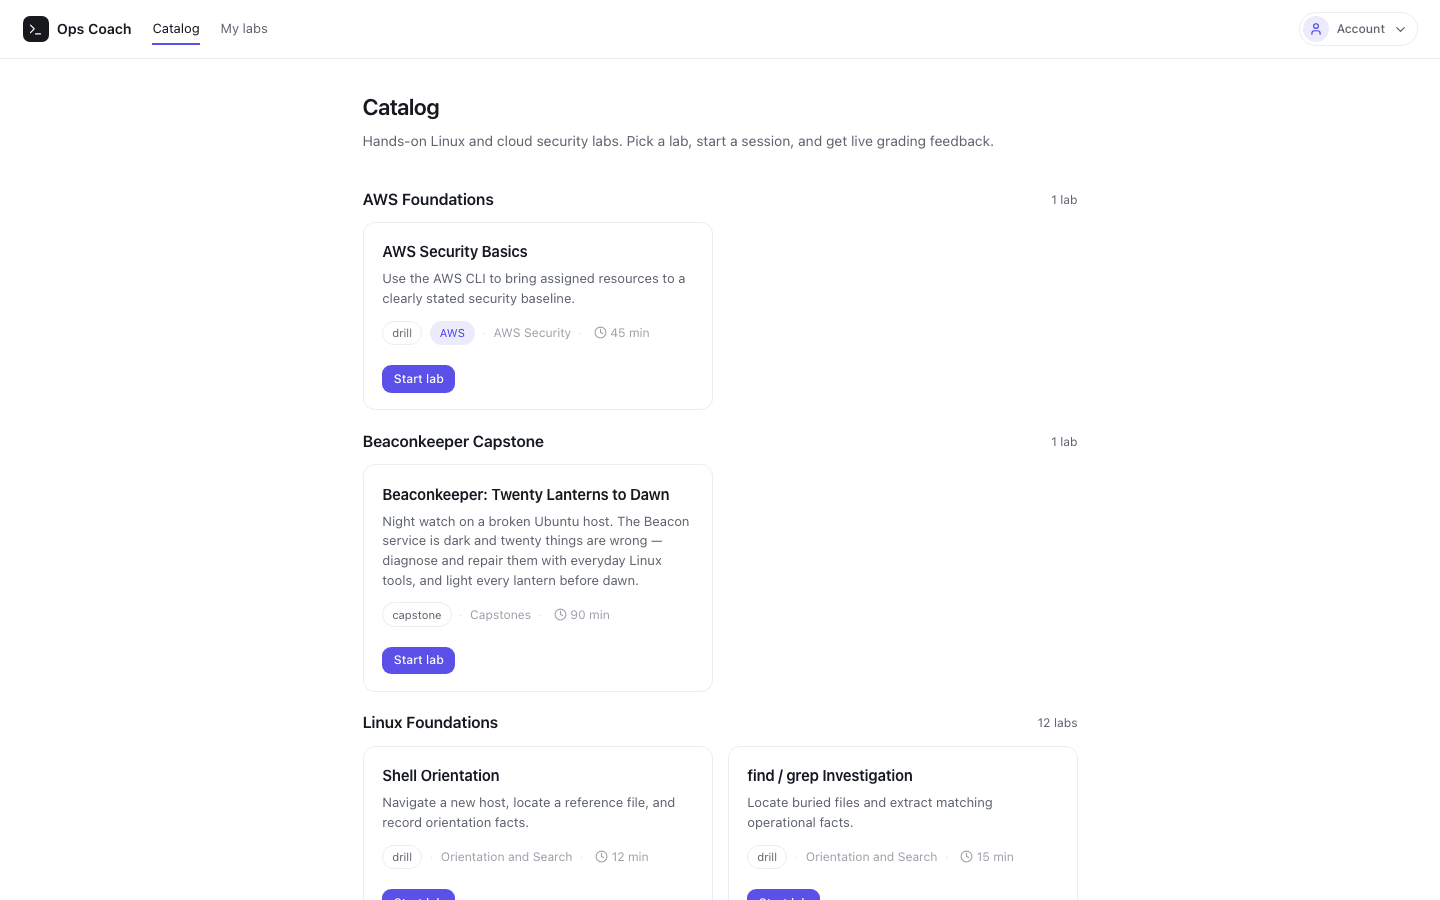
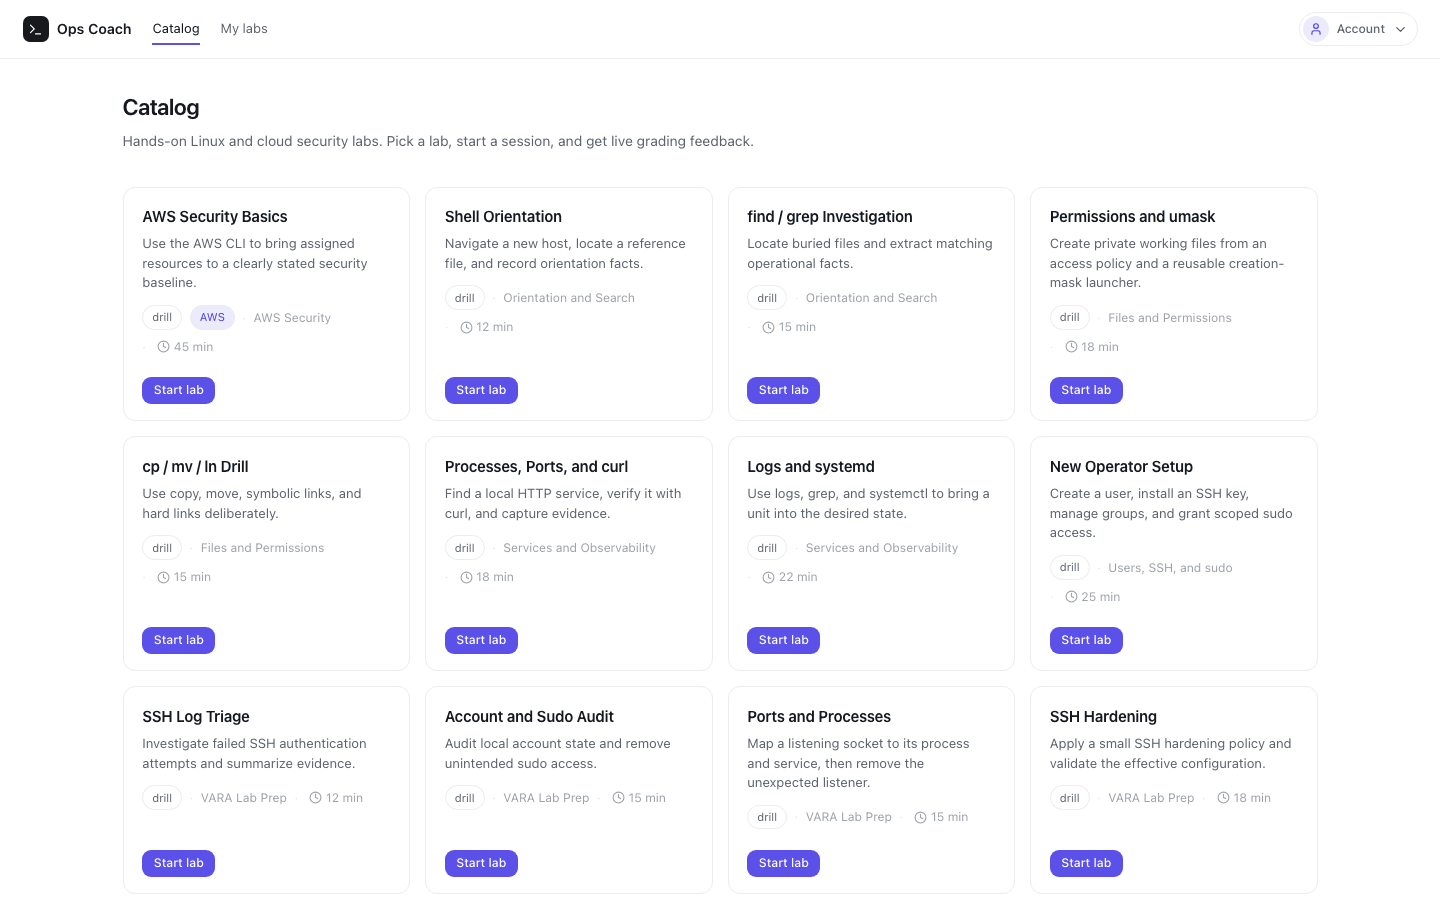
Catalog: flow all labs into one grid
Per-pack sections left single-lab packs (AWS, Beaconkeeper) with big empty rows on
wide screens. Flatten to one continuous grid (page--wide, capstone sorted last) so
labs fill rows. Refresh the README catalog screenshot and caption.

diff --git a/web/app/catalog/page.tsx b/web/app/catalog/page.tsx
@@ -11,8 +11,14 @@ export default function CatalogPage() {
     error = err instanceof Error ? err.message : "Failed to load catalog";
   }
 
+  // Flow every lab into one grid; as separate per-pack sections, single-lab packs
+  // left big empty rows. Capstones sort last so they read as the finale.
+  const labs = packs
+    .flatMap((pack) => pack.labs)
+    .sort((a, b) => Number(a.kind === "capstone") - Number(b.kind === "capstone"));
+
   return (
-    <main className="page">
+    <main className="page page--wide">
       <header className="page-header">
         <div className="page-header__main">
           <h1 className="page-title">Catalog</h1>
@@ -26,38 +32,26 @@ export default function CatalogPage() {
       {error ? (
         <div className="error-banner">{error}</div>
       ) : (
-        <div className="stack">
-          {packs.map((pack) => (
-            <section key={pack.packId}>
-              <div className="section__head">
-                <h2>{pack.packTitle}</h2>
-                <span className="muted" style={{ fontSize: "0.8125rem" }}>
-                  {pack.labs.length} {pack.labs.length === 1 ? "lab" : "labs"}
+        <div className="lab-grid">
+          {labs.map((lab) => (
+            <article key={`${lab.packId}:${lab.labId}`} className="card lab-card">
+              <h3>{lab.labTitle}</h3>
+              <p>{lab.summary}</p>
+              <div className="meta">
+                <span className="badge">{lab.kind}</span>
+                {lab.isAwsLab ? <span className="badge badge--accent">AWS</span> : null}
+                <span className="meta__sep">{lab.moduleTitle}</span>
+                <span className="meta__sep" style={{ display: "inline-flex", alignItems: "center", gap: "0.25rem" }}>
+                  <Clock size={13} aria-hidden />
+                  {lab.estimatedMinutes} min
                 </span>
               </div>
-              <div className="lab-grid">
-                {pack.labs.map((lab) => (
-                  <article key={`${lab.packId}:${lab.labId}`} className="card lab-card">
-                    <h3>{lab.labTitle}</h3>
-                    <p>{lab.summary}</p>
-                    <div className="meta">
-                      <span className="badge">{lab.kind}</span>
-                      {lab.isAwsLab ? <span className="badge badge--accent">AWS</span> : null}
-                      <span className="meta__sep">{lab.moduleTitle}</span>
-                      <span className="meta__sep" style={{ display: "inline-flex", alignItems: "center", gap: "0.25rem" }}>
-                        <Clock size={13} aria-hidden />
-                        {lab.estimatedMinutes} min
-                      </span>
-                    </div>
-                    <div className="lab-card__foot">
-                      <Link className="button btn--accent btn--sm" href={`/play/${lab.packId}/${lab.labId}`}>
-                        Start lab
-                      </Link>
-                    </div>
-                  </article>
-                ))}
+              <div className="lab-card__foot">
+                <Link className="button btn--accent btn--sm" href={`/play/${lab.packId}/${lab.labId}`}>
+                  Start lab
+                </Link>
               </div>
-            </section>
+            </article>
           ))}
         </div>
       )}

diff --git a/README.md b/README.md
@@ -14,7 +14,7 @@ Here is the Beaconkeeper capstone. In the browser terminal, `ops status` lists t
 
 ![OpsCoach session: the Beaconkeeper capstone, with ops status in the browser terminal and the live public dashboard](docs/img/workspace.png)
 
-The catalog groups the Linux and cloud-ops drills with the Beaconkeeper capstone:
+The full catalog, from the Linux and cloud-ops drills to the Beaconkeeper capstone:
 
 ![OpsCoach catalog of labs](docs/img/catalog.png)
 